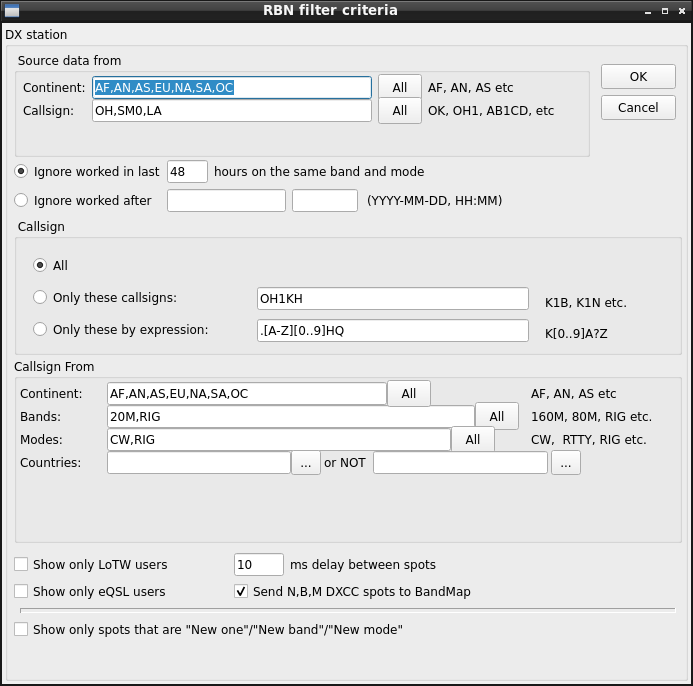
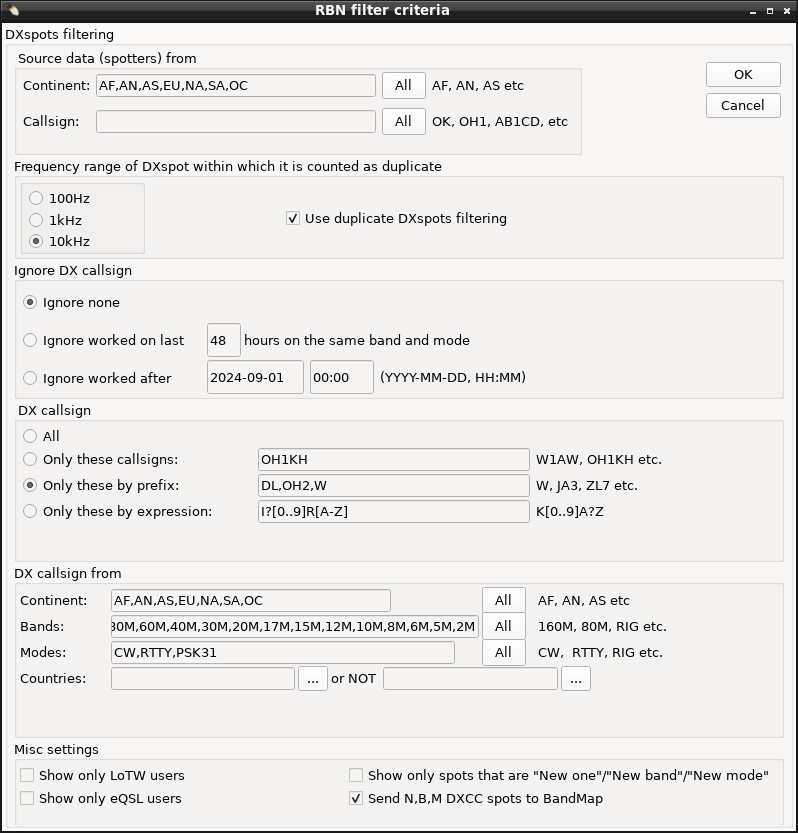
RBN filter:Add: filter DX by prefix (comma separated list).Filter criteria window sizeable

diff --git a/help/h20.html b/help/h20.html
@@ -428,8 +428,7 @@ tr:nth-child(even){background-color:#d6eeee;}
     and the mode. <br><br>
     When the cursor leaves the 'Call' field, you will see your previous
     contacts with the logged station (if any). The number above 'Call' box marked 'QSO nr.'
-    denotes the number of contacts you already have with the worked station (here,
-    130 QSO worked already with G3LIK, the 131st just being logged). The previously confirmed
+    denotes the number of contacts you already have with the worked station. The previously confirmed
     contacts are highlighted in red. If the station has a QSL
     manager, his call appears in the 'QSL VIA' field and an indication
     'QSL manager found' is displayed. If the station wants QSL direct only,

diff --git a/src/changelog.html b/src/changelog.html
@@ -12,6 +12,7 @@
     What is new:
     <ul style="list-style: square;text-align:left; color: green;" >
     <li>(139)</li><ul>
+    <li>RBN filter:Add: filter DX by prefix (comma separated list).Filter criteria window sizeable</li>	
     <li>RBN filter:Fix: fixed layout of RBN filter</li>
     <li>WSJT remote:Fix: error when using 'mode from cqrlog' in wsjt/fldigi settings </li>
     <li>CWType:Add: Added 'Line' mode. Makes easy to prepare your next over while still listening </li>